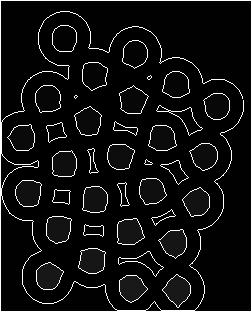
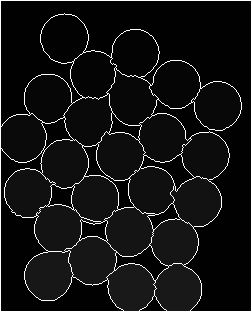
implementation 1.0 complete

diff --git a/watershed/src/main.rs b/watershed/src/main.rs
@@ -138,8 +138,7 @@ struct WSNode {
     img_ofs: i32,
 }
 
-const IN_QUEUE: i32 = -2;
-const WSHED: i32 = -1;
+
 const NQ: i32 = 256;
 
 
@@ -154,8 +153,13 @@ fn watershed(_src: DynamicImage, markers: ImageBuffer<Luma<u8>, Vec<u8>>) -> Gra
     let mut priority_queue: BinaryHeap<State> = BinaryHeap::new();
     // priority_queue.push(State { cost: 0, position: 0 });
 
-    let mut copy = markers.clone();
+
+    let mut copy: ImageBuffer<Luma<u8>, Vec<u8>> = markers.clone().try_into().unwrap();
+    println!( "{:?}", markers.get_pixel(0, 0));
     let img = _src.to_rgb8();
+
+    let in_queue: u8 = 254;
+    let wshed: u8 = 255;
     // let size = (_src.width(), _src.height());
 
     // let mut storage: Vec<WSNode> = Vec::new();
@@ -182,14 +186,14 @@ fn watershed(_src: DynamicImage, markers: ImageBuffer<Luma<u8>, Vec<u8>>) -> Gra
 
     // width perimeter
     for i in 0..copy.width() {
-        copy.put_pixel(i, 0, Luma([255]));
-        copy.put_pixel(i, copy.height()-1, Luma([255]));
+        copy.put_pixel(i, 0, Luma([wshed]));
+        copy.put_pixel(i, copy.height()-1, Luma([wshed]));
     }
 
     // height perimeter
     for i in 0..copy.height() {
-        copy.put_pixel(0, i, Luma([255]));
-        copy.put_pixel(copy.width()-1, i, Luma([255]));
+        copy.put_pixel(0, i, Luma([wshed]));
+        copy.put_pixel(copy.width()-1, i, Luma([wshed]));
     }
 
     // initial phase: put all the neighbor pixels of each marker to the ordered queue -
@@ -197,38 +201,39 @@ fn watershed(_src: DynamicImage, markers: ImageBuffer<Luma<u8>, Vec<u8>>) -> Gra
     for i in 1..copy.height()-1 {
         for j in 1..copy.width()-1 {
 
-            if copy.get_pixel(j, i).0[0] < (0 as u8) {
+            // making sure nothing in queue
+            if (copy.get_pixel(j, i).0[0] < (0 as u8)) || (copy.get_pixel(j, i).0[0] > 253) {
                 copy.put_pixel(j, i,Luma([0]));
             }
 
             // checks surrounding pixels to see if around a group
             if  copy.get_pixel(j, i).0[0] == 0 && 
-                (copy.get_pixel(j, i+1).0[0] > 0 || 
-                copy.get_pixel(j, i-1).0[0] > 0 || 
-                copy.get_pixel(j+1, i).0[0] > 0 || 
-                copy.get_pixel(j-1, i).0[0] > 0) 
+                (((copy.get_pixel(j, i+1).0[0] > 0) && (copy.get_pixel(j, i+1).0[0] < 254)) || 
+                ((copy.get_pixel(j, i-1).0[0] > 0) && (copy.get_pixel(j, i-1).0[0] < 254)) || 
+                ((copy.get_pixel(j+1, i).0[0] > 0) && (copy.get_pixel(j+1, i).0[0] < 254)) || 
+                ((copy.get_pixel(j-1, i).0[0] > 0) && (copy.get_pixel(j-1, i).0[0] < 254))) 
             {
                 // the lower the priority the sooner it gets addressed
                 let mut priority: u8 = 255;
                 let mut holder:u8 = 255;
 
-                if copy.get_pixel(j, i+1).0[0] > 0 {
+                if (copy.get_pixel(j, i+1).0[0] > 0) && (copy.get_pixel(j, i+1).0[0] < 254) {
                     holder = pixel_diff(img.get_pixel(j, i+1).clone(), img.get_pixel(j, i).clone());
                     priority = std::cmp::min(holder, priority);
                 }
-                if copy.get_pixel(j, i-1).0[0] > 0 {
+                if (copy.get_pixel(j, i-1).0[0] > 0) && (copy.get_pixel(j, i-1).0[0] < 254) {
 
                     holder = pixel_diff(img.get_pixel(j, i-1).clone(), img.get_pixel(j, i).clone());
                     priority = std::cmp::min(holder, priority);
                     
                 }
-                if copy.get_pixel(j+1, i).0[0] > 0 {
+                if (copy.get_pixel(j+1, i).0[0] > 0) && (copy.get_pixel(j+1, i).0[0] < 254) {
 
                     holder = pixel_diff(img.get_pixel(j+1, i).clone(), img.get_pixel(j, i).clone());
                     priority = std::cmp::min(holder, priority);
                     
                 }
-                if copy.get_pixel(j-1, i).0[0] > 0 {
+                if (copy.get_pixel(j-1, i).0[0] > 0) && (copy.get_pixel(j-1, i).0[0] < 254) {
 
                     holder = pixel_diff(img.get_pixel(j-1, i).clone(), img.get_pixel(j, i).clone());
                     priority = std::cmp::min(holder, priority);
@@ -236,20 +241,97 @@ fn watershed(_src: DynamicImage, markers: ImageBuffer<Luma<u8>, Vec<u8>>) -> Gra
                 }
                 // add to queue
                 priority_queue.push(State {cost: priority, position: (j,i)});
-                // copy.put_pixel(j, i, Luma([255]));
+                copy.put_pixel(j, i, Luma([in_queue])); //3722 or 3627
                 // need to designate pixel in queue
                 
 
             }
 
         }
-        // next step
+        
 
     }
+
     // next step
     // println!("{}", priority_queue.len());
+    // let mut current: State = State { cost: 12, position: (0,0) };
 
-    // println!("{:?}", priority_queue.pop());
+    while !priority_queue.is_empty() {
+        let mut current = priority_queue.pop().unwrap();
+        let mut lab = 0;
+        let mut t;
+
+        //left
+        t = copy.get_pixel(current.position.0-1, current.position.1).0[0];
+        if t > 0 && t < 254 {
+            lab = t;
+        }
+        //right
+        t = copy.get_pixel(current.position.0+1, current.position.1).0[0];
+        if t > 0 && t < 254 {
+            if lab == 0 {lab=t;}
+            else if t != lab {lab=wshed;}
+        }
+        //top
+        t = copy.get_pixel(current.position.0, current.position.1-1).0[0];
+        if t > 0 && t < 254 {
+            if lab == 0 {lab=t;}
+            else if t != lab {lab=wshed;}
+        }
+        //bottom
+        t = copy.get_pixel(current.position.0, current.position.1+1).0[0];
+        if t > 0 && t < 254 {
+            if lab == 0 {lab=t;}
+            else if t != lab {lab=wshed;}
+        }
+
+        copy.put_pixel(current.position.0, current.position.1, Luma([lab]));
+
+        // halfway
+        if lab == wshed {continue;}
+
+        //left
+        if copy.get_pixel(current.position.0-1, current.position.1).0[0] == 0 {
+
+            let holder = pixel_diff(img.get_pixel(current.position.0-1, current.position.1).clone(), 
+                                img.get_pixel(current.position.0, current.position.1).clone());
+            
+            priority_queue.push(State { cost: holder, position: (current.position.0-1, current.position.1) });
+            copy.put_pixel(current.position.0-1, current.position.1, Luma([in_queue]));
+        }
+        //right
+        if copy.get_pixel(current.position.0+1, current.position.1).0[0] == 0 {
+
+            let holder = pixel_diff(img.get_pixel(current.position.0+1, current.position.1).clone(), 
+                                img.get_pixel(current.position.0, current.position.1).clone());
+            
+            priority_queue.push(State { cost: holder, position: (current.position.0+1, current.position.1) });
+            copy.put_pixel(current.position.0+1, current.position.1, Luma([in_queue]));
+        }
+        //top
+        if copy.get_pixel(current.position.0, current.position.1-1).0[0] == 0 {
+
+            let holder = pixel_diff(img.get_pixel(current.position.0, current.position.1-1).clone(), 
+                                img.get_pixel(current.position.0, current.position.1).clone());
+            
+            priority_queue.push(State { cost: holder, position: (current.position.0, current.position.1-1) });
+            copy.put_pixel(current.position.0, current.position.1-1, Luma([in_queue]));
+        }
+        //bottom
+        if copy.get_pixel(current.position.0, current.position.1+1).0[0] == 0 {
+
+            let holder = pixel_diff(img.get_pixel(current.position.0, current.position.1+1).clone(), 
+                                img.get_pixel(current.position.0, current.position.1).clone());
+            
+            priority_queue.push(State { cost: holder, position: (current.position.0, current.position.1+1) });
+
+            copy.put_pixel(current.position.0, current.position.1+1, Luma([in_queue]));
+        }
+    }
+
+    // println!("{:?}", current);
+
+    println!("{:?}", priority_queue.len());
     
     // visualization tool
     // priority_queue.iter().for_each(|x| copy.put_pixel(x.position.0, x.position.1, Luma([255])));
